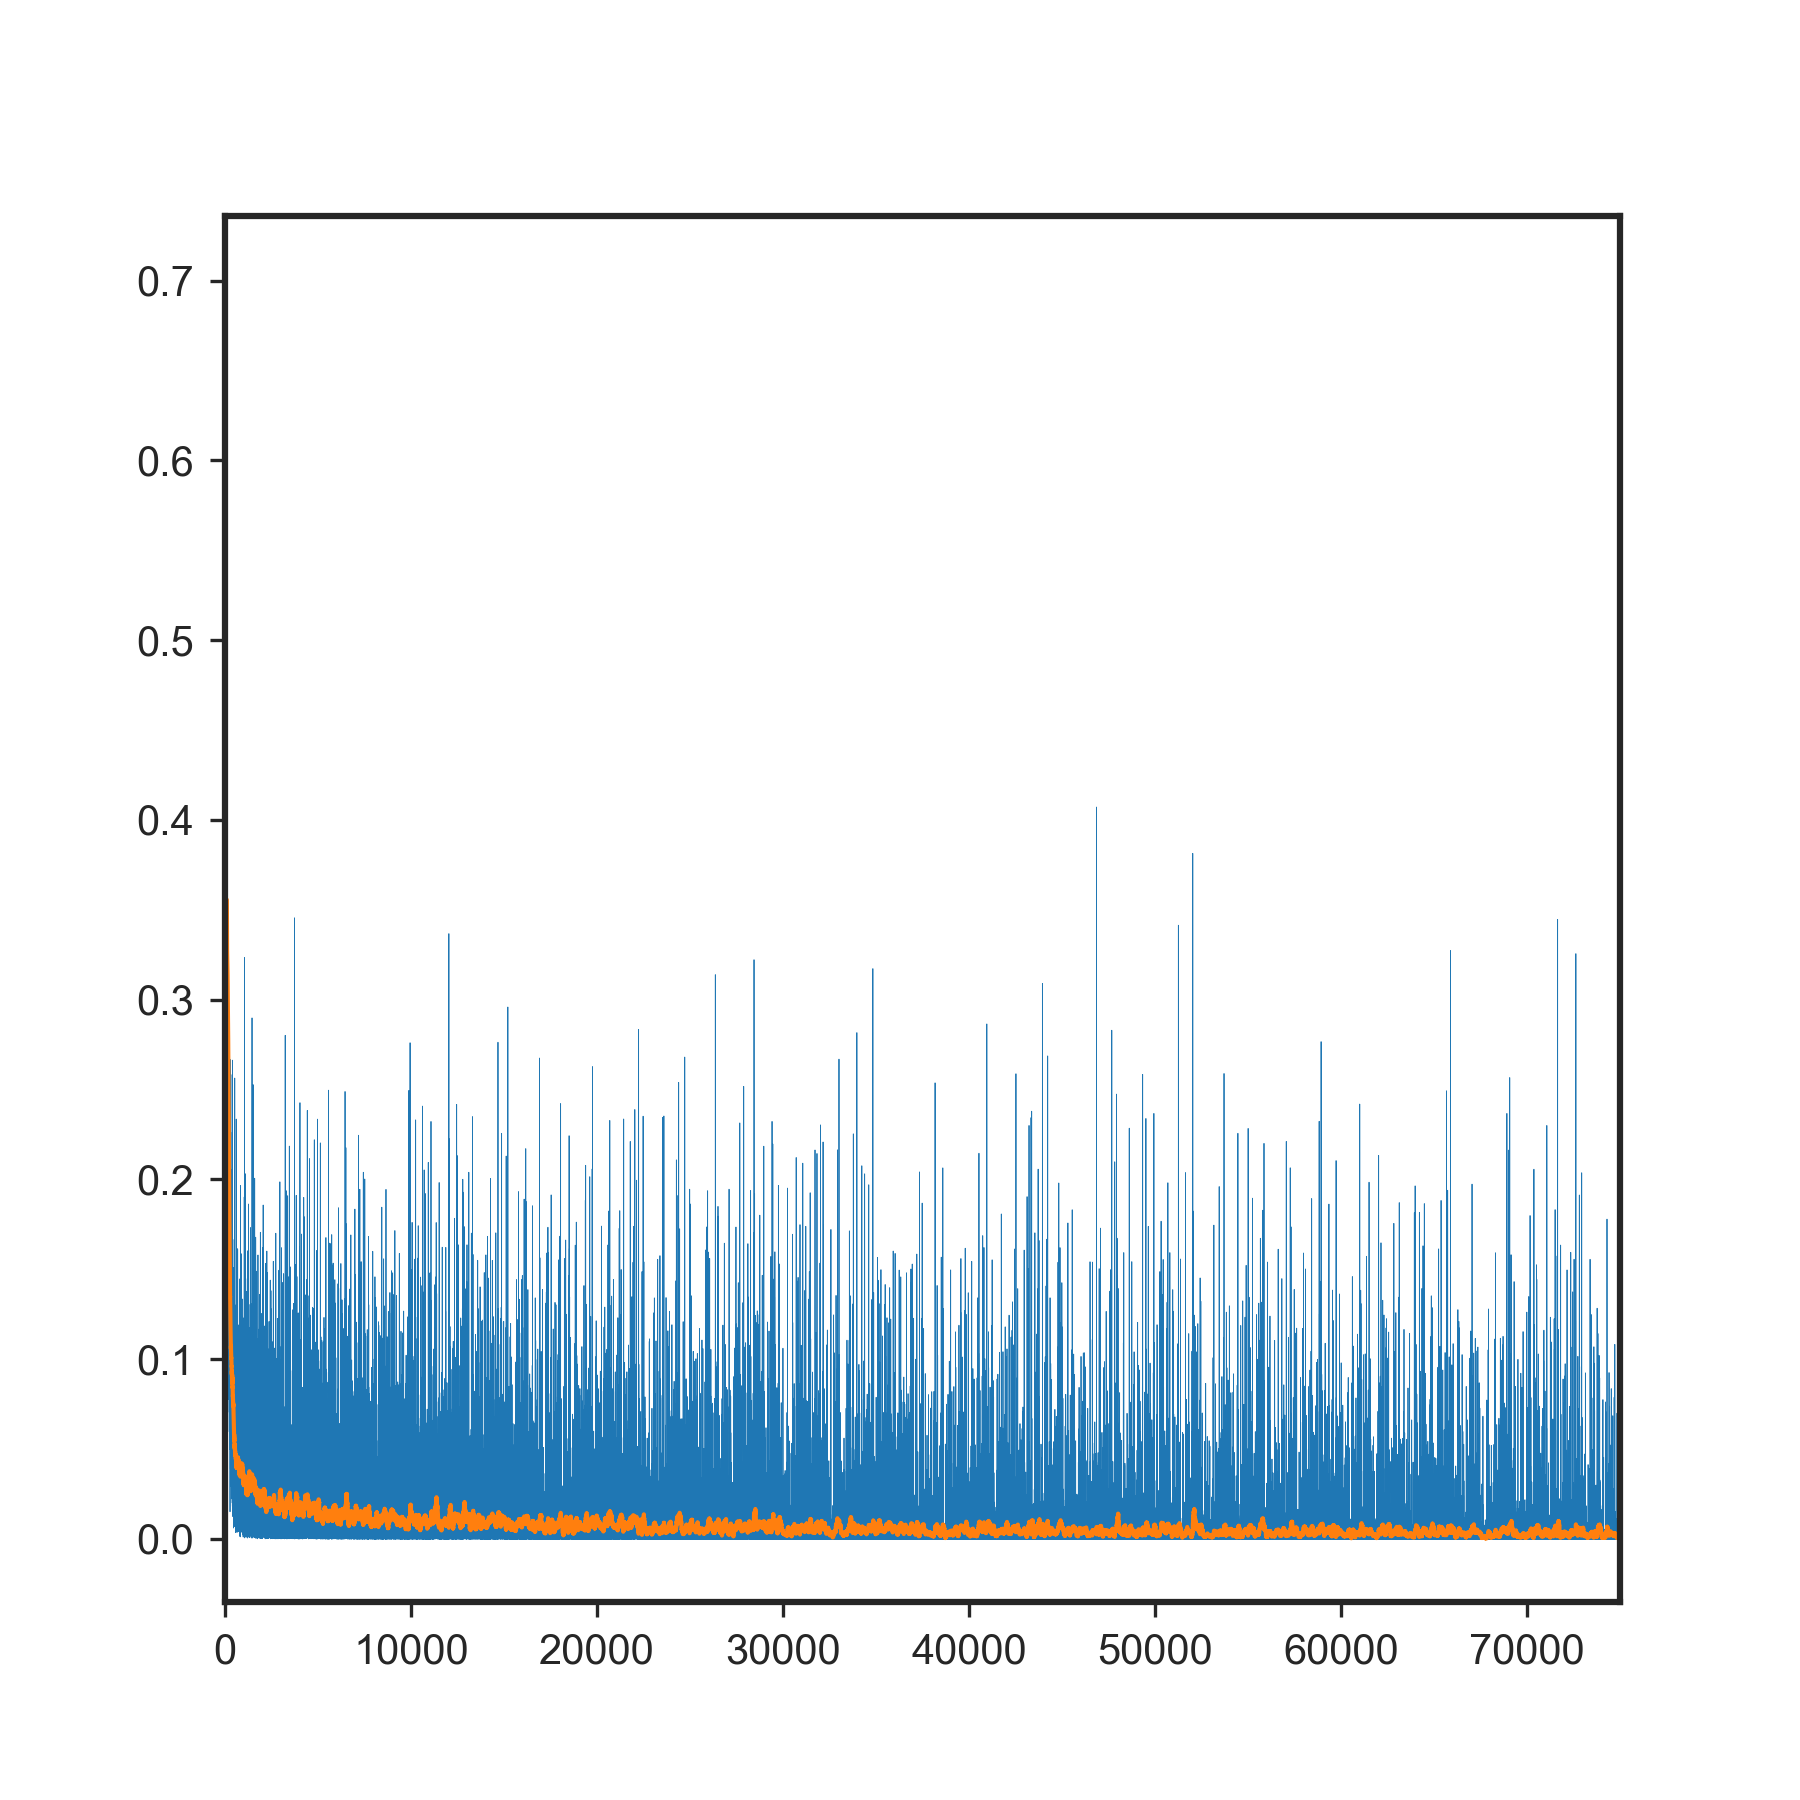
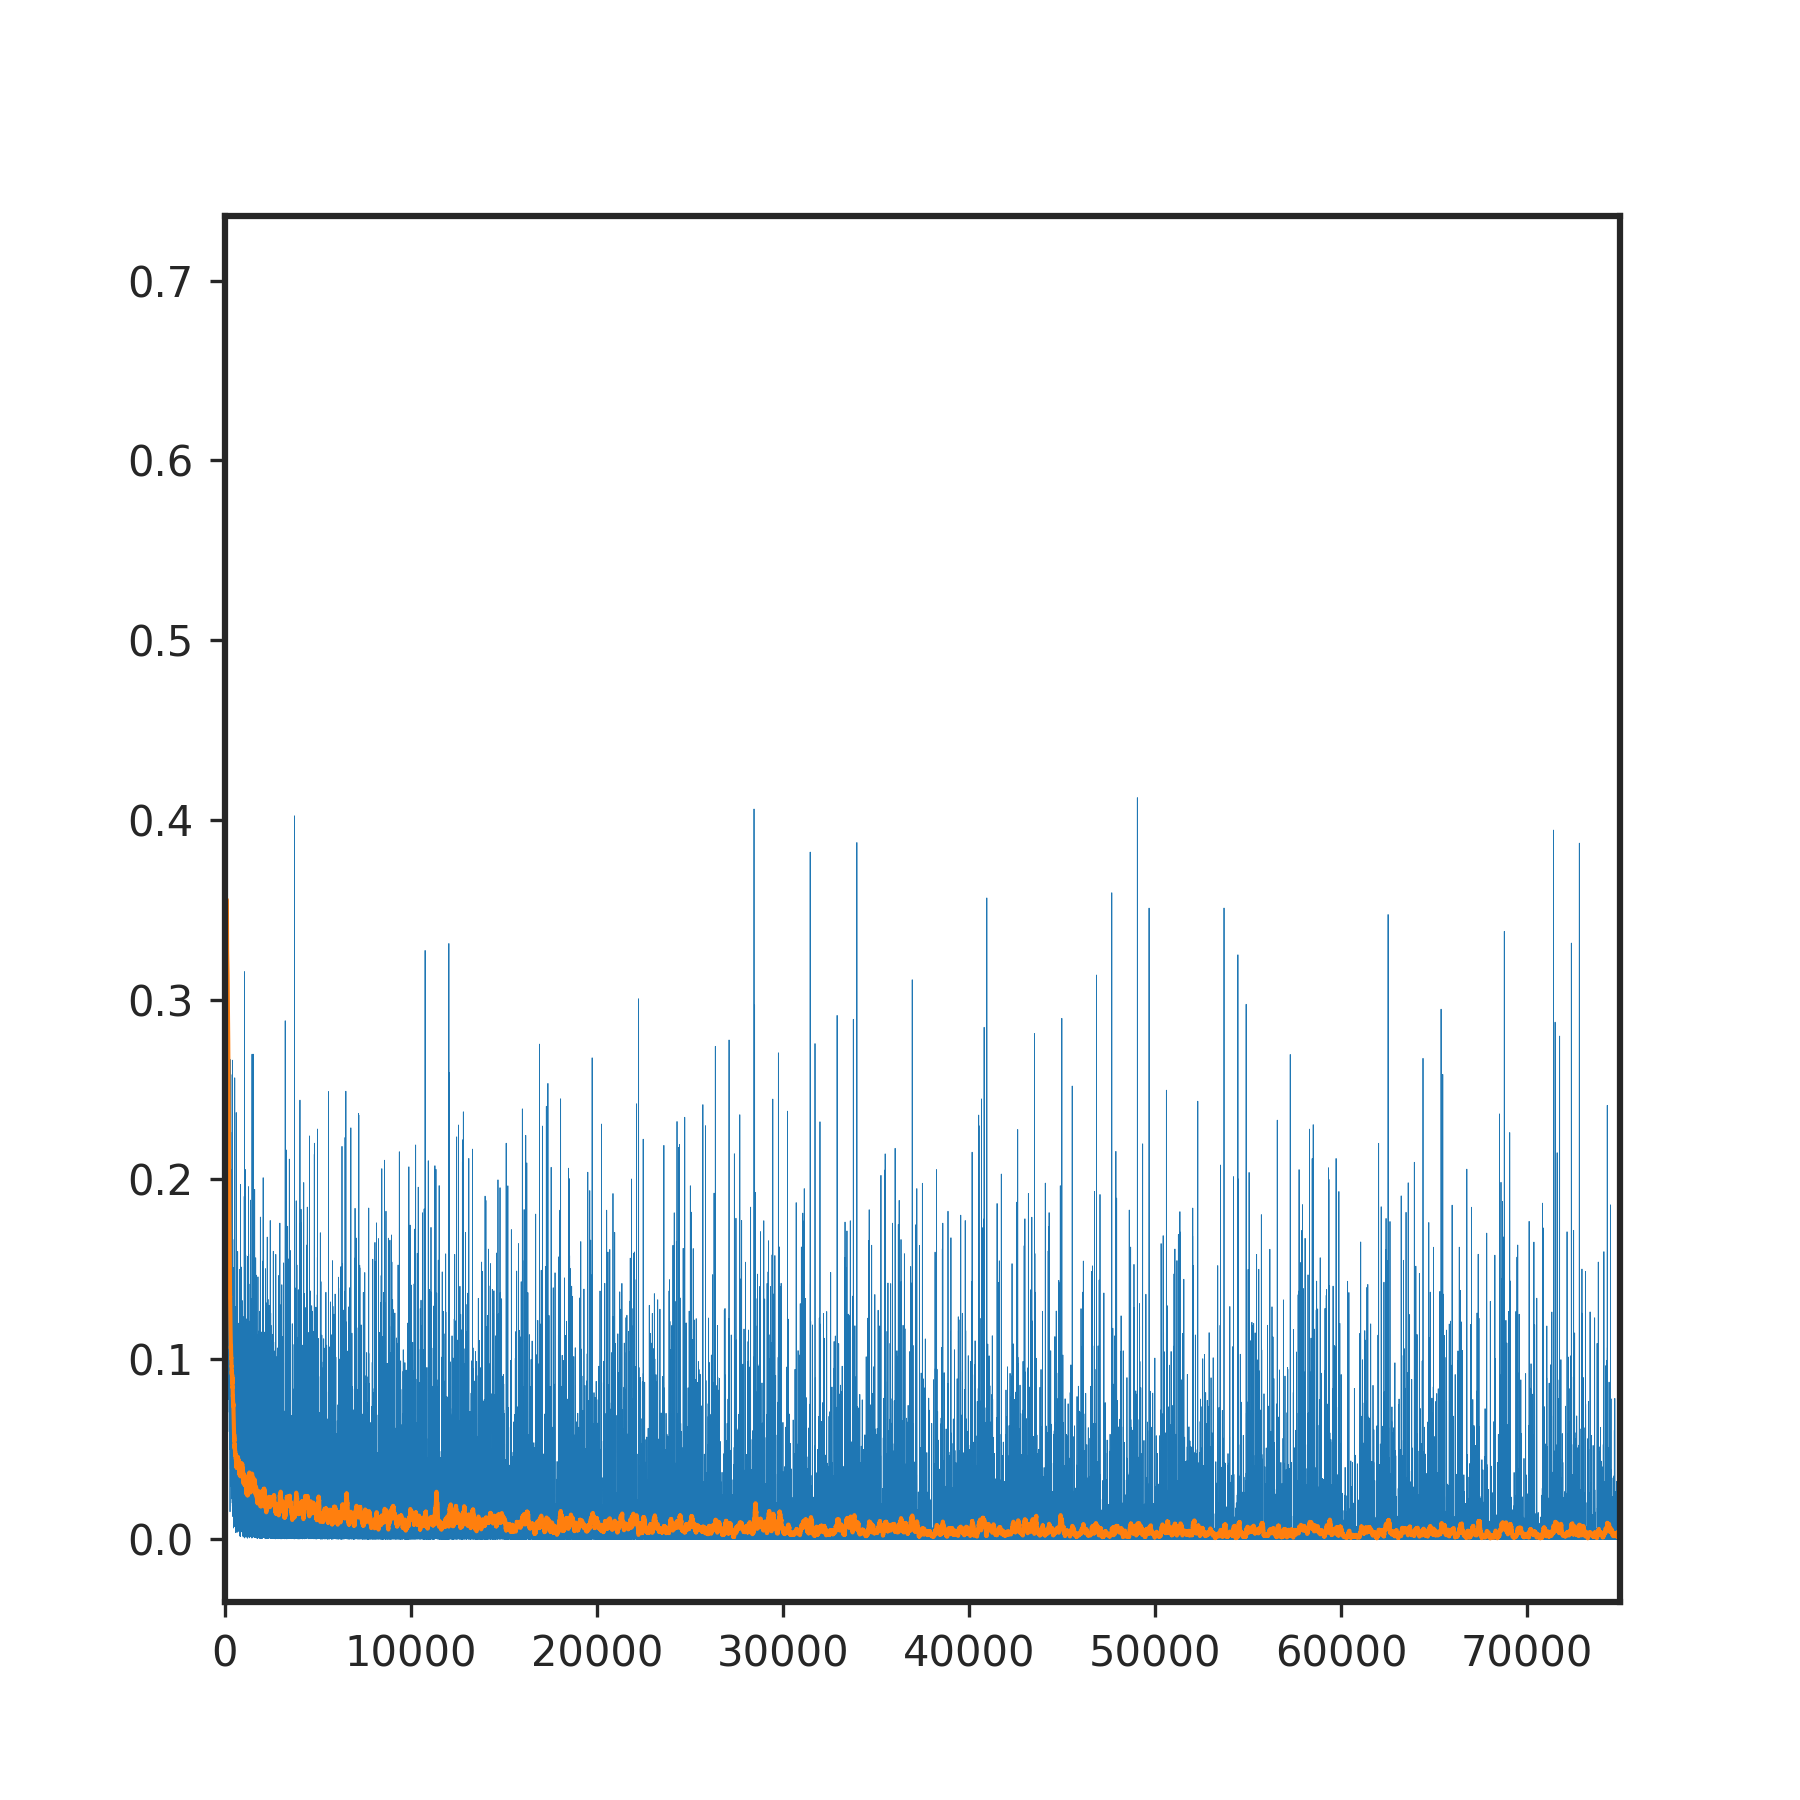
chore: improve logging for loss in training

diff --git a/notebooks/2_3_unet.py b/notebooks/2_3_unet.py
@@ -6,9 +6,6 @@ import pandas as pd
 import torch
 from segretini_matplottini.utils.plot_utils import reset_plot_style, save_plot
 
-import sys
-sys.path.insert(0, "..")
-sys.path.insert(0, ".")
 from ddpm_from_scratch.ddpm import DDPM
 from ddpm_from_scratch.engines.mnist import (MnistInferenceGifCallback,
                                              get_one_element_per_digit,
@@ -34,10 +31,10 @@ if __name__ == "__main__":
     # Define the denoising model. This time, use a full UNet with timestep conditioning,
     # residual blocks, and self-attention.
     model = UNet().to(device)
-    # print(model)
+    print(model)
 
-    # Define the optimizer.
-    optimizer = torch.optim.Adam(model.parameters(), lr=1e-3)
+    # Define the optimizer. We use RAdam instead of Adam, it works a bit better.
+    optimizer = torch.optim.RAdam(model.parameters(), lr=1e-3)
 
     # Create the diffusion process.
     # This time, we use a cosine schedule.
@@ -49,7 +46,7 @@ if __name__ == "__main__":
     mnist_train, dataloader_train, mnist_test, dataloader_test = load_mnist(DATA_DIR, batch_size=128)
 
     #%% Train the model, in the same way as before.
-    losses = train(dataloader=dataloader_train, sampler=ddpm, optimizer=optimizer, epochs=3, device=device)
+    losses = train(dataloader=dataloader_train, sampler=ddpm, optimizer=optimizer, epochs=800, device=device)
 
     # Save the model
     torch.save(model.state_dict(), DATA_DIR / "unet.pt")

diff --git a/ddpm_from_scratch/engines/mnist.py b/ddpm_from_scratch/engines/mnist.py
@@ -102,7 +102,8 @@ def train(dataloader: DataLoader, sampler: DDPM, optimizer: Optimizer, epochs: i
     losses: list[float] = []
     progress_bar_epoch = tqdm(range(epochs), desc="training")
     for e in progress_bar_epoch:
-        progress_bar_step = tqdm(dataloader, desc=f"epoch {e}")
+        progress_bar_step = tqdm(dataloader, desc=f"epoch {e + 1}/{epochs}")
+        losses_epoch: list[float] = []
         # Iterate over the dataset, but ignore the class for now
         for i, (x, _) in enumerate(progress_bar_step):
             x = x.to(device)
@@ -120,10 +121,11 @@ def train(dataloader: DataLoader, sampler: DDPM, optimizer: Optimizer, epochs: i
             # Backward step
             loss.backward()
             optimizer.step()
-            losses += [loss.item()]
+            losses_epoch += [loss.item()]
             if i % 10 == 0:
                 progress_bar_step.set_postfix({"loss": loss.item()})
-        progress_bar_epoch.set_postfix({"loss": loss.item()})
+        losses += losses_epoch
+        progress_bar_epoch.set_postfix({"loss": np.mean(losses_epoch)})
     return losses
 
 

diff --git a/notebooks/2_5_fid.py b/notebooks/2_5_fid.py
@@ -2,13 +2,11 @@ from ddpm_from_scratch.models.lenet5 import LeNet5
 from pathlib import Path
 import torch
 from torchtyping import TensorType
+
 from ddpm_from_scratch.ddpm import DDPM
 from ddpm_from_scratch.engines.mnist import (
-    MnistInferenceGifCallback,
-    get_one_element_per_digit,
     inference,
     load_mnist,
-    train,
 )
 from ddpm_from_scratch.models.unet import UNet
 from ddpm_from_scratch.utils import B, N, gaussian_frechet_distance, cosine_beta_schedule
